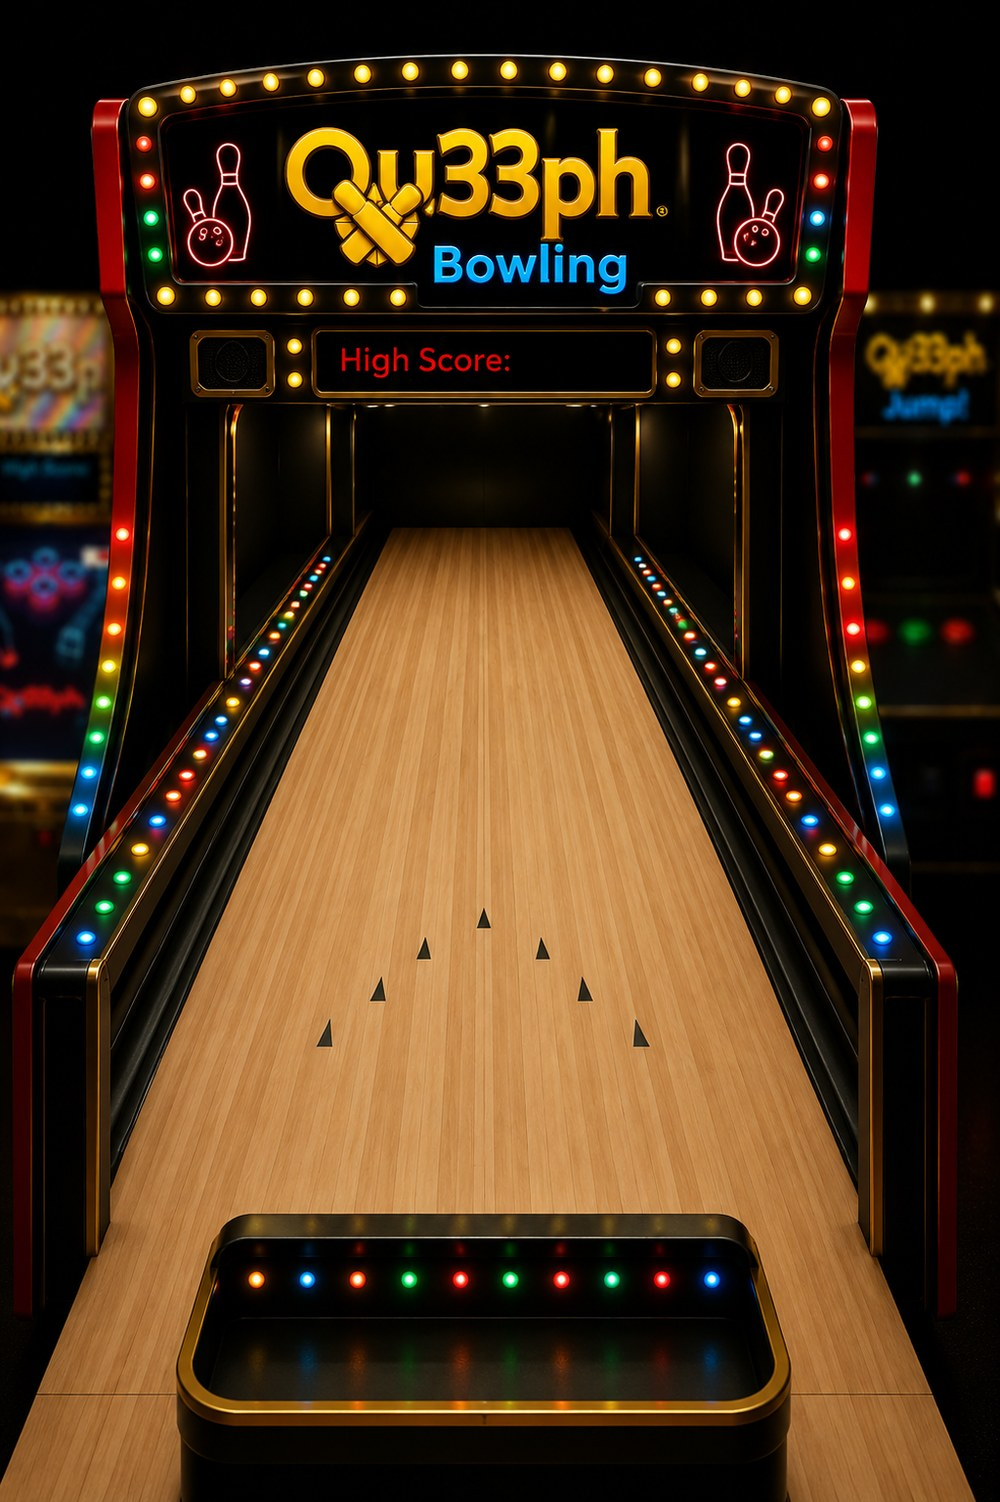
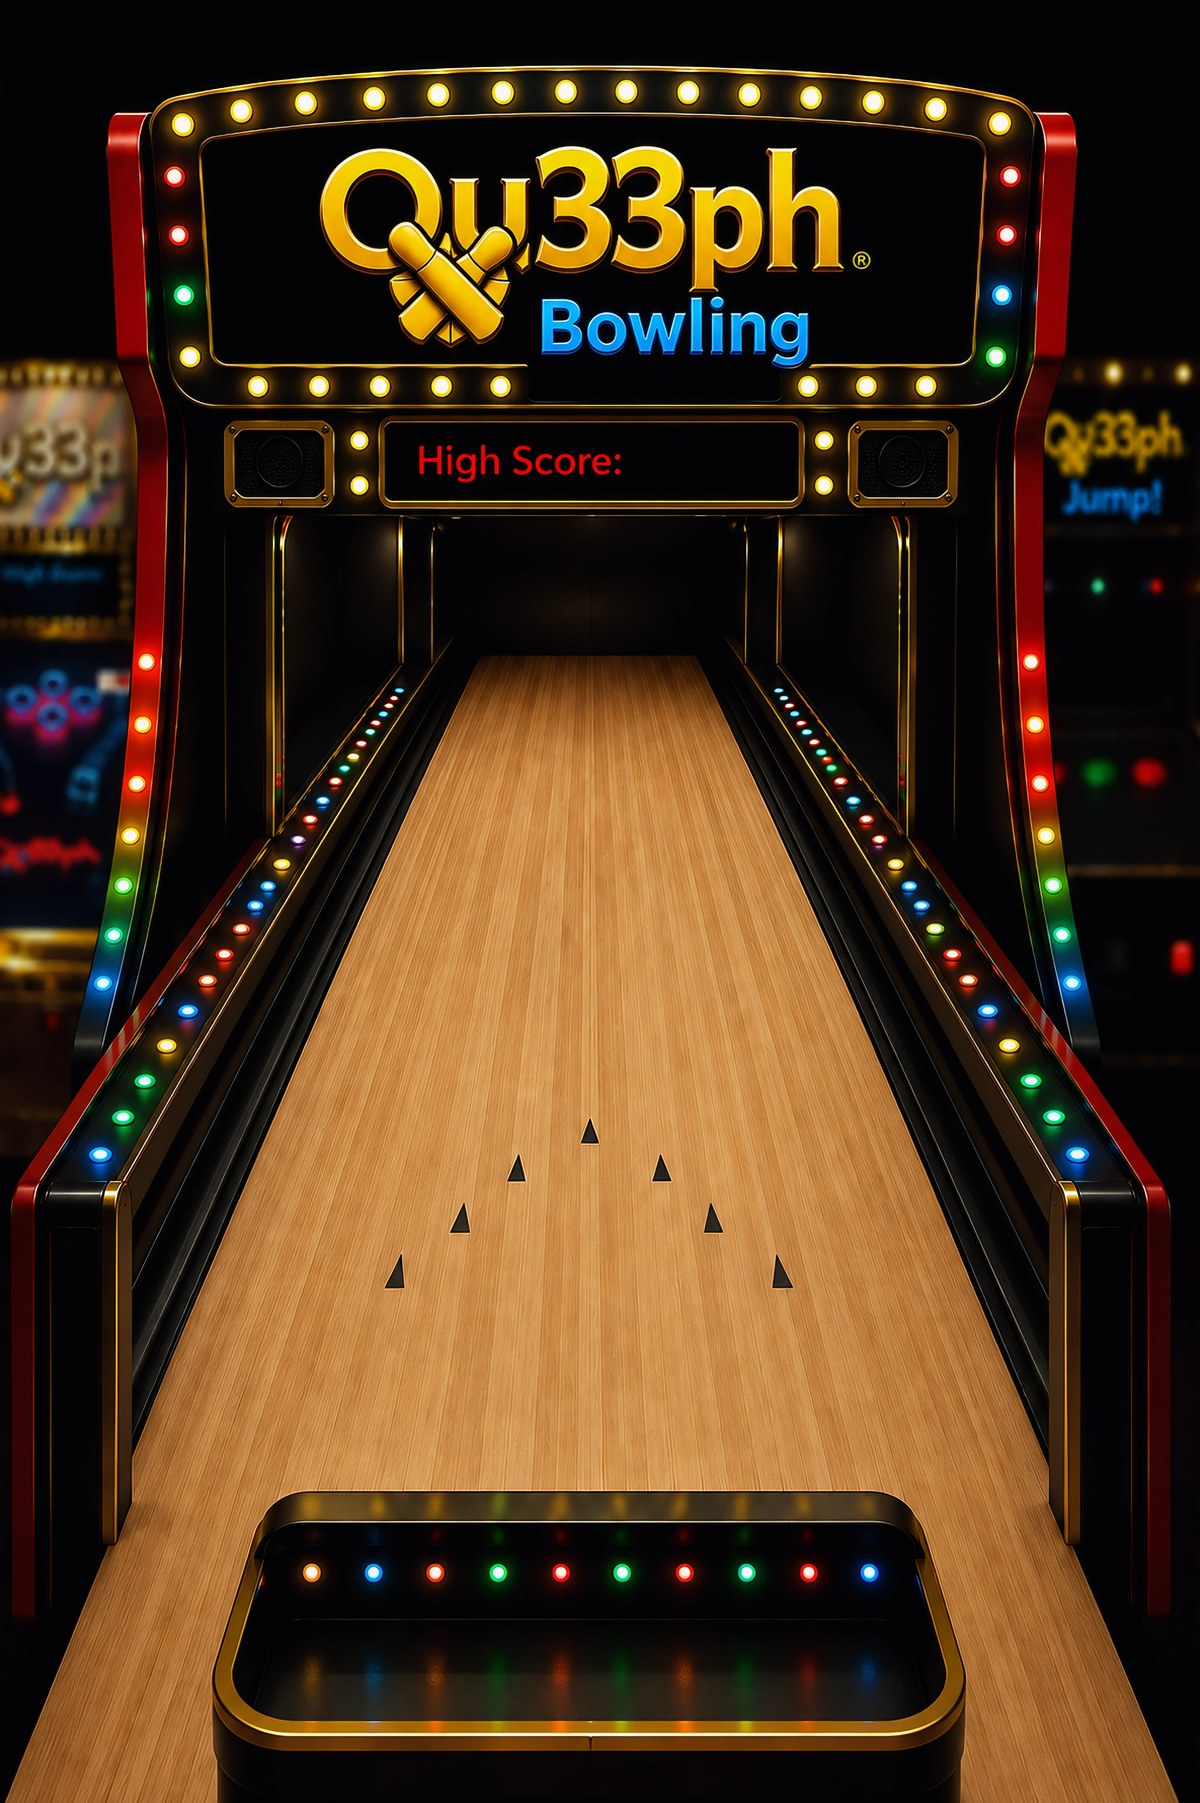
Add files via upload
refactoring bowling

diff --git a/index.html b/index.html
@@ -687,7 +687,7 @@
   </style>
 </head>
 <body>
-<div id="verBadge" style="position:fixed;bottom:6px;right:8px;font-family:Helvetica,Arial,sans-serif;font-size:10px;color:#444;z-index:99999;letter-spacing:1px;pointer-events:none;">v370</div>
+<div id="verBadge" style="position:fixed;bottom:6px;right:8px;font-family:Helvetica,Arial,sans-serif;font-size:10px;color:#444;z-index:99999;letter-spacing:1px;pointer-events:none;">v371</div>
 
 <canvas id="game"></canvas>
 
@@ -4744,15 +4744,15 @@ function showArcadeMenu(){
 function arcadeBack(){ document.getElementById("arcadeMenu").style.display="none"; showTitle(); }
 function arcadeComingSoon(){ try{ haptic([20,30,20]); }catch(e){} }
 function launchPfGame(){ document.getElementById("arcadeMenu").style.display="none"; showCharSelect(); }
-function launchBowling(){ try{pfMusicStop();}catch(e){} document.getElementById("arcadeMenu").style.display="none"; var s=document.getElementById("bowlingScreen"); s.style.display="block"; var f=document.getElementById("bowlingFrame"); var _t=(typeof styleOf==="function"?styleOf():currentTheme); f.setAttribute("src","bowling.html?v=370&theme="+encodeURIComponent(_t)); arcadeGame="bowling"; try{ haptic(10); }catch(e){} }
+function launchBowling(){ try{pfMusicStop();}catch(e){} document.getElementById("arcadeMenu").style.display="none"; var s=document.getElementById("bowlingScreen"); s.style.display="block"; var f=document.getElementById("bowlingFrame"); var _t=(typeof styleOf==="function"?styleOf():currentTheme); f.setAttribute("src","bowling.html?v=371&theme="+encodeURIComponent(_t)); arcadeGame="bowling"; try{ haptic(10); }catch(e){} }
 function bowlingBack(){ var f=document.getElementById("bowlingFrame"); try{ f.setAttribute("src","about:blank"); }catch(e){} document.getElementById("bowlingScreen").style.display="none"; showArcadeMenu(); }
 function launchFidget(){ try{pfMusicStop();}catch(e){} document.getElementById("arcadeMenu").style.display="none"; var s=document.getElementById("fidgetScreen"); s.style.display="block"; var f=document.getElementById("fidgetFrame"); var _t=(typeof styleOf==="function"?styleOf():currentTheme); f.setAttribute("src","fidget.html?theme="+encodeURIComponent(_t)); arcadeGame="fidget"; try{ haptic(10); }catch(e){} }
 function fidgetBack(){ var f=document.getElementById("fidgetFrame"); try{ f.setAttribute("src","about:blank"); }catch(e){} document.getElementById("fidgetScreen").style.display="none"; showArcadeMenu(); }
-function launchMini(){ try{pfMusicStop();}catch(e){} document.getElementById("arcadeMenu").style.display="none"; document.getElementById("miniScreen").style.display="block"; var f=document.getElementById("miniFrame"); var _t=(typeof styleOf==="function"?styleOf():currentTheme); f.setAttribute("src","mini.html?v=370&theme="+encodeURIComponent(_t)); arcadeGame="mini"; try{ haptic(10); }catch(e){} }
+function launchMini(){ try{pfMusicStop();}catch(e){} document.getElementById("arcadeMenu").style.display="none"; document.getElementById("miniScreen").style.display="block"; var f=document.getElementById("miniFrame"); var _t=(typeof styleOf==="function"?styleOf():currentTheme); f.setAttribute("src","mini.html?v=371&theme="+encodeURIComponent(_t)); arcadeGame="mini"; try{ haptic(10); }catch(e){} }
 function miniBack(){ var f=document.getElementById("miniFrame"); try{ f.setAttribute("src","about:blank"); }catch(e){} document.getElementById("miniScreen").style.display="none"; showArcadeMenu(); }
-function launchStack(){ try{pfMusicStop();}catch(e){} document.getElementById("arcadeMenu").style.display="none"; var sc=document.getElementById("stackScreen"); sc.style.display="block"; var f=document.getElementById("stackFrame"); var _t=(typeof styleOf==="function"?styleOf():currentTheme); f.setAttribute("src","stack.html?v=370&theme="+encodeURIComponent(_t)); arcadeGame="stack"; try{ haptic(10); }catch(e){} }
+function launchStack(){ try{pfMusicStop();}catch(e){} document.getElementById("arcadeMenu").style.display="none"; var sc=document.getElementById("stackScreen"); sc.style.display="block"; var f=document.getElementById("stackFrame"); var _t=(typeof styleOf==="function"?styleOf():currentTheme); f.setAttribute("src","stack.html?v=371&theme="+encodeURIComponent(_t)); arcadeGame="stack"; try{ haptic(10); }catch(e){} }
 function stackBack(){ var f=document.getElementById("stackFrame"); try{ f.setAttribute("src","about:blank"); }catch(e){} document.getElementById("stackScreen").style.display="none"; showArcadeMenu(); }
-function launchSkee(){ try{pfMusicStop();}catch(e){} document.getElementById("arcadeMenu").style.display="none"; var sc=document.getElementById("skeeScreen"); sc.style.display="block"; var f=document.getElementById("skeeFrame"); var _t=(typeof styleOf==="function"?styleOf():currentTheme); f.setAttribute("src","qu33phball.html?v=370&theme="+encodeURIComponent(_t)); arcadeGame="skee"; try{ haptic(10); }catch(e){} }
+function launchSkee(){ try{pfMusicStop();}catch(e){} document.getElementById("arcadeMenu").style.display="none"; var sc=document.getElementById("skeeScreen"); sc.style.display="block"; var f=document.getElementById("skeeFrame"); var _t=(typeof styleOf==="function"?styleOf():currentTheme); f.setAttribute("src","qu33phball.html?v=371&theme="+encodeURIComponent(_t)); arcadeGame="skee"; try{ haptic(10); }catch(e){} }
 function skeeBack(){ var f=document.getElementById("skeeFrame"); try{ f.setAttribute("src","about:blank"); }catch(e){} document.getElementById("skeeScreen").style.display="none"; showArcadeMenu(); }
 function orientFlipIcon(im){
   im = im || document.querySelector("#cabFlip img"); if(!im) return;
@@ -4763,9 +4763,9 @@ function orientFlipIcon(im){
   };
   if(im.complete && im.naturalWidth) set(); else im.onload=set;
 }
-function launchFlip(){ try{pfMusicStop();}catch(e){} document.getElementById("arcadeMenu").style.display="none"; var sc=document.getElementById("flipScreen"); sc.style.display="block"; var f=document.getElementById("flipFrame"); var _t=(typeof styleOf==="function"?styleOf():currentTheme); f.setAttribute("src","flip.html?v=370&theme="+encodeURIComponent(_t)); arcadeGame="flip"; try{ haptic(10); }catch(e){} }
+function launchFlip(){ try{pfMusicStop();}catch(e){} document.getElementById("arcadeMenu").style.display="none"; var sc=document.getElementById("flipScreen"); sc.style.display="block"; var f=document.getElementById("flipFrame"); var _t=(typeof styleOf==="function"?styleOf():currentTheme); f.setAttribute("src","flip.html?v=371&theme="+encodeURIComponent(_t)); arcadeGame="flip"; try{ haptic(10); }catch(e){} }
 function flipBack(){ var f=document.getElementById("flipFrame"); try{ f.setAttribute("src","about:blank"); }catch(e){} document.getElementById("flipScreen").style.display="none"; showArcadeMenu(); }
-function launchDozer(){ try{pfMusicStop();}catch(e){} document.getElementById("arcadeMenu").style.display="none"; var sc=document.getElementById("dozerScreen"); sc.style.display="block"; var f=document.getElementById("dozerFrame"); var _t=(typeof styleOf==="function"?styleOf():currentTheme); f.setAttribute("src","dozer.html?v=370&theme="+encodeURIComponent(_t)); arcadeGame="dozer"; try{ haptic(10); }catch(e){} }
+function launchDozer(){ try{pfMusicStop();}catch(e){} document.getElementById("arcadeMenu").style.display="none"; var sc=document.getElementById("dozerScreen"); sc.style.display="block"; var f=document.getElementById("dozerFrame"); var _t=(typeof styleOf==="function"?styleOf():currentTheme); f.setAttribute("src","dozer.html?v=371&theme="+encodeURIComponent(_t)); arcadeGame="dozer"; try{ haptic(10); }catch(e){} }
 function dozerBack(){ var f=document.getElementById("dozerFrame"); try{ f.setAttribute("src","about:blank"); }catch(e){} document.getElementById("dozerScreen").style.display="none"; showArcadeMenu(); }
 function showCharSelect(){ pfMusicStop(); showPlatformer("charselect"); }
 function csNav(dir){ pfCharIdx=(pfCharIdx+dir+PF_CHARS.length)%PF_CHARS.length; try{haptic(6);}catch(e){} }
@@ -5344,7 +5344,7 @@ function pfGenPath(){
 // Gate it to 60 steps a second so the feel is identical on every device — all the
 // existing physics tuning is untouched, the extra frames are simply skipped.
 var pfNextStep=0;
-const PF_STEP_MS=1000/60;
+const PF_STEP_MS=1000/90;   // 90Hz — needs a 90Hz+ display to hit it; a 60Hz screen still runs 60
 function pfLoop(){ if(!pfActive){ pfRAF=null; return; }
   var _now=performance.now();
   if(_now<pfNextStep){ pfRAF=requestAnimationFrame(pfLoop); return; }
@@ -5523,7 +5523,7 @@ const jgJumpL=new Image(); jgJumpL.src="jump_jumpL.png";  // airborne, facing le
 // ── playable characters ──────────────────────────────────────────────────
 // Qu33ph has hand-drawn left AND right art. The other three only have right-facing
 // art, so they get mirrored on the canvas when facing left.
-var CHAR_V="370";   // bump when character art is replaced, so browsers drop the cached copy
+var CHAR_V="371";   // bump when character art is replaced, so browsers drop the cached copy
 function CIMG(src){ var i=new Image(); i.src=src+"?v="+CHAR_V; return i; }
 var PF_CHARS=[
   { id:"qu33ph", name:"QU33PH",     cls:"human", speed:1,   jump:1,     grav:1,    airJumps:0, note:"",

diff --git a/bowling.html b/bowling.html
@@ -14,7 +14,7 @@
 </head>
 <body>
 <div id="wrap">
-  <img id="bg" src="bowling.jpg?v=362" draggable="false" onerror="this.style.opacity=0.12">
+  <img id="bg" src="bowling.jpg?v=371" draggable="false" onerror="this.style.opacity=0.12">
   <canvas id="cv"></canvas>
 </div>
 <script>
@@ -29,15 +29,18 @@
 // All normalised 0-1 against the CONTAIN-fitted background image, so they
 // stay locked to the artwork at any screen size. Nudge these if the lane
 // drifts off the painted wood.
-const ART_W=1023, ART_H=1537;
-const NEAR_Y=0.800, NEAR_HW=0.355;      // foul line (nearest edge of the wood)
-const LANE_CX=0.4832;                   // centre arrow — the lane is NOT centred on the art
-const FAR_Y =0.360, FAR_HW =0.115;      // pin deck (where the lane goes dark)
-const RET_Y =0.845;                     // the row of lights in the ball return
-const RET_X0=0.2561, RET_X1=0.7111;     // first and last light centres
-const HS_X=0.563, HS_Y=0.2411;          // beside the painted "High Score:" label
-// the panel's gold frame runs 0.294-0.674, so the speaker boxes sit either side of it
-const BOX_L=0.235, BOX_R=0.735, BOX_Y=0.2411, BOX_W=0.072;
+// Every one of these was measured off the field art, not guessed. The lane edges were
+// traced out to the gutters at 14 depths and least-squares fitted to the perspective
+// model (rms 0.0017), and the centre is confirmed twice over — the aiming arrows and
+// the ball-return lights independently agree on 0.490.
+const ART_W=2556, ART_H=3840;
+const NEAR_Y=0.830, NEAR_HW=0.395;      // foul line (nearest edge of the wood)
+const LANE_CX=0.4900;                   // centre arrow — the lane is NOT centred on the art
+const FAR_Y =0.360, FAR_HW =0.094;      // pin deck (where the lane goes dark)
+const RET_Y =0.866;                     // the row of lights in the ball return
+const RET_X0=0.2600, RET_X1=0.7240;     // first and last light centres
+const HS_X=0.500, HS_Y=0.1600;          // just past the painted "High Score:" label
+const BOX_L=0.143, BOX_R=0.837, BOX_Y=0.1600, BOX_W=0.058;   // the two speaker boxes
 
 // ─── themes: same five looks, same rules as every other cabinet ───────────
 const THEME=(new URLSearchParams(location.search).get('theme')||'default').toLowerCase();
@@ -152,7 +155,7 @@ function toV(Y){ return Y/LANE_LEN; }
 // A pin stands on its cap, so its footprint really is a small circle. The marker you
 // roll lies flat, so it's a long capsule — and which way it points depends on the
 // orientation you picked, which is why FLAT sweeps wide and VERT slips through gaps.
-const PIN_R=0.062, BALL_R=0.058;          // BALL_R is the capsule's half-WIDTH
+const PIN_R=0.074, BALL_R=0.070;          // BALL_R is the capsule's half-WIDTH
 const BALL_HL=0.165;                      // capsule half-length
 // screen rotation 0 = pointing down the lane, PI/2 = lying across it
 function ballAxis(rot){ return { x:Math.sin(rot), y:Math.cos(rot) }; }
@@ -368,10 +371,10 @@ function step(dt){
       const c=capsuleHit(ball, p.X, p.Y, PIN_R);
       if(c){
         const nx=c.nx, ny=c.ny;
-        const hit=Math.max(0.6, (ball.vy*0.55+Math.abs(ball.vx)*0.4)*(ball.carry||1));
+        const hit=Math.max(1.15, (ball.vy*0.80+Math.abs(ball.vx)*0.5)*(ball.carry||1));
         p.vx+=nx*hit; p.vy+=ny*hit;
         p.down=true; p.rot=(Math.random()-0.5)*0.5; p.vrot=(Math.random()-0.5)*9-Math.sign(nx)*3;
-        ball.vx+= -nx*hit*0.16; ball.vy=Math.max(0.4,ball.vy-0.30);
+        ball.vx+= -nx*hit*0.09; ball.vy=Math.max(0.55,ball.vy-0.16);   // ploughs on through
         sfx('pin');
       }
     }
@@ -408,7 +411,7 @@ function step(dt){
     if(p.gone) continue;
     if(Math.abs(p.vx)>0.001||Math.abs(p.vy)>0.001){
       p.X+=p.vx*dt; p.Y+=p.vy*dt;
-      p.vx-=p.vx*2.7*dt; p.vy-=p.vy*2.7*dt;
+      p.vx-=p.vx*1.9*dt; p.vy-=p.vy*1.9*dt;                            // pins carry further
       p.rot+=p.vrot*dt; p.vrot-=p.vrot*2.2*dt;
       if(p.down) p.sink=Math.min(1,p.sink+dt*2.4);
       for(const q of pins){
@@ -417,8 +420,8 @@ function step(dt){
         if(d<PIN_R*2 && d>0.0001){
           const nx=ddx/d, ny=ddy/d, push=(PIN_R*2-d)*0.5;
           q.X+=nx*push; p.X-=nx*push; q.Y+=ny*push; p.Y-=ny*push;
-          const t=Math.hypot(p.vx,p.vy)*0.55;
-          if(t>0.25){ q.vx+=nx*t; q.vy+=ny*t;
+          const t=Math.hypot(p.vx,p.vy)*0.82;                          // stronger chain reaction
+          if(t>0.13){ q.vx+=nx*t; q.vy+=ny*t;
             if(!q.down){ q.down=true; q.rot=(Math.random()-0.5)*0.5; q.vrot=(Math.random()-0.5)*8; sfx('pin'); } }
         }
       }
